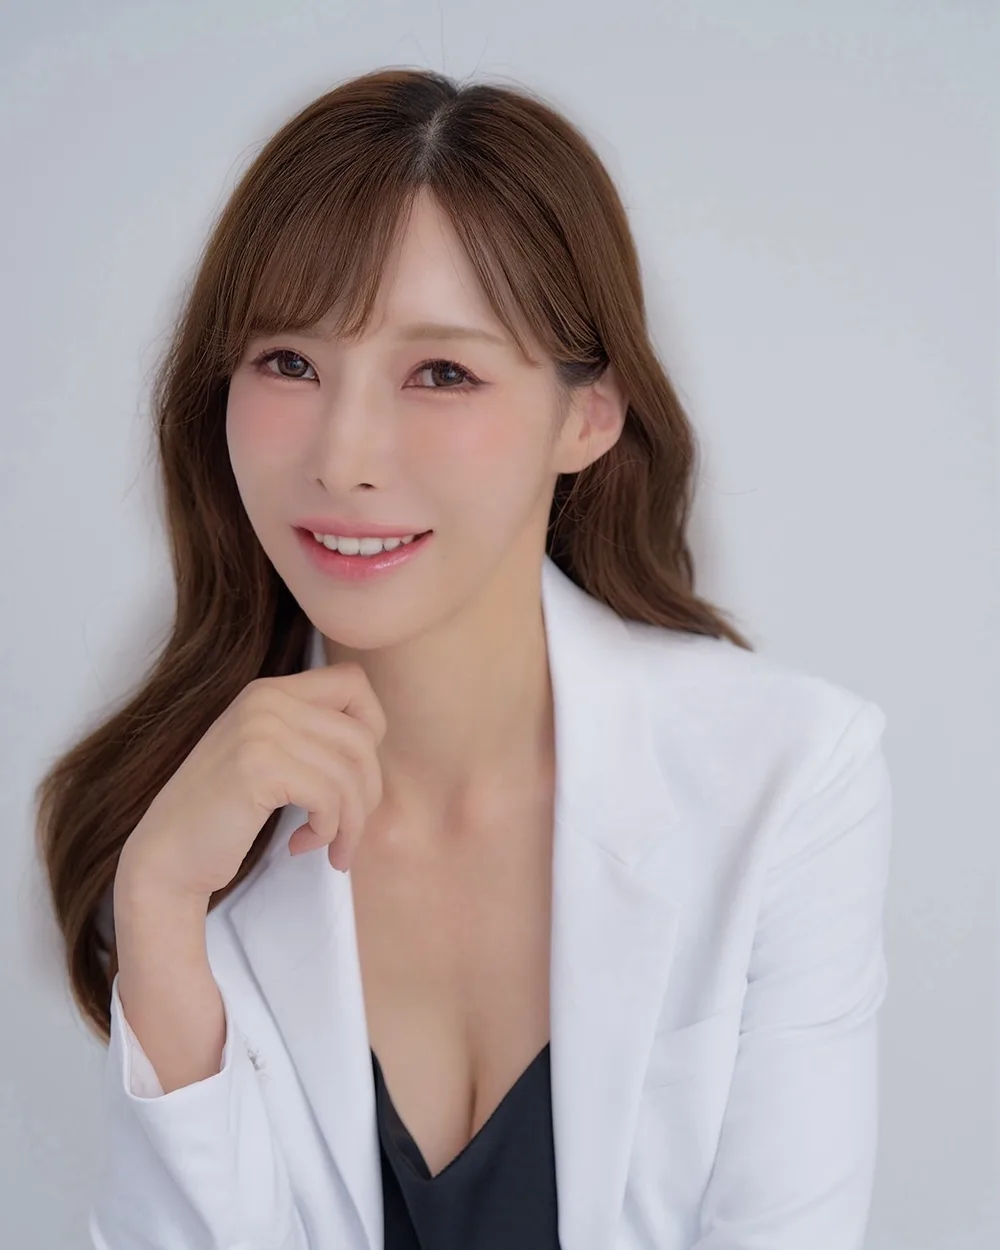
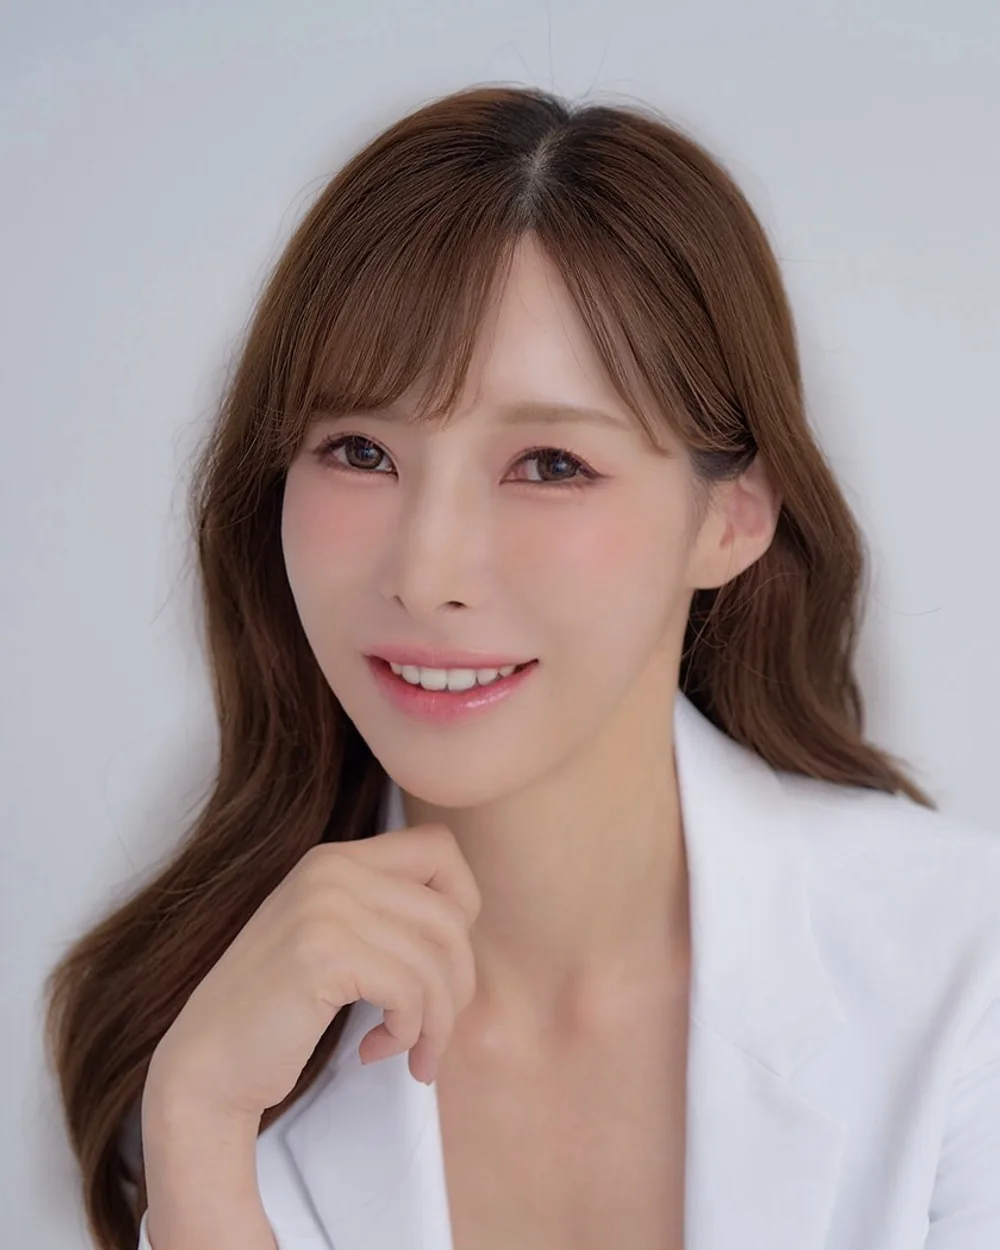
顔写真のトリミング統一・ブログ画像の見切れ修正・「選ばれる理由」を編集的レイアウトに刷新・縦書きの文字重なりを修正
Claude-Session: https://claude.ai/code/session_018aKLtxqHy7iMJmdab12LXn

diff --git a/index.html b/index.html
@@ -97,7 +97,7 @@
       </div>
     </div>
   </div>
-  <p class="hero__vert">あなただけの、美しさを。</p>
+  <p class="hero__vert"><span class="vstack"><span>あ</span><span>な</span><span>た</span><span>だ</span><span>け</span><span>の</span><span>美</span><span>し</span><span>さ</span><span>を</span></span></p>
   <div class="hero__scroll" aria-hidden="true">Scroll<i></i></div>
 </section>
 
@@ -155,24 +155,15 @@
   <div class="container">
     <div class="sec-head is-center reveal"><span class="en">Reason</span><span class="ja">選ばれる3つの理由</span></div>
     <h2 class="sec-title txt-center reveal">医療の知識と、アートの技術。<br class="sp">そのどちらも妥協しません。</h2>
-    <div class="features">
-      <div class="feature reveal" data-delay="1">
-        <p class="feature__num">01</p>
-        <div class="feature__icon" aria-hidden="true"><svg viewBox="0 0 48 48"><path d="M24 6v36M6 24h36"/><circle cx="24" cy="24" r="17"/></svg></div>
-        <h3 class="feature__title">医療従事者による安心の施術</h3>
-        <p>アートメイクは皮膚に色素を入れる医療行為です。当院では看護師資格を持つアーティストが、提携クリニックの医師の管理のもとで施術。滅菌された使い捨てニードルと医療グレードの色素のみを使用します。</p>
+    <div class="reasons">
+      <div class="reasons__visual reveal">
+        <img src="assets/img/reason-visual.webp" alt="" loading="lazy">
+        <p class="reasons__vert"><small>Reason</small><span class="vstack"><span>選</span><span>ば</span><span>れ</span><span>る</span><span>理</span><span>由</span></span></p>
       </div>
-      <div class="feature reveal" data-delay="2">
-        <p class="feature__num">02</p>
-        <div class="feature__icon" aria-hidden="true"><svg viewBox="0 0 48 48"><path d="M6 42V6h36v36z"/><path d="M6 28h22V6M28 28v14M28 28h14"/><path d="M42 6A36 36 0 0 0 6 42" stroke-dasharray="2 3"/></svg></div>
-        <h3 class="feature__title">黄金比から導くオーダーメイド</h3>
-        <p>黄金比・白銀比、骨格、表情筋の動き、普段のメイクやライフスタイルまで様々な角度から計算し、あなたにしか似合わないデザインを設計。毛並み・パウダー・コンビネーションなど技法もお選びいただけます。</p>
-      </div>
-      <div class="feature reveal" data-delay="3">
-        <p class="feature__num">03</p>
-        <div class="feature__icon" aria-hidden="true"><svg viewBox="0 0 48 48"><path d="M24 41S6 30 6 18a9 9 0 0 1 18-2 9 9 0 0 1 18 2c0 12-18 23-18 23z"/><path d="M14 20h6l3-5 4 10 3-5h4"/></svg></div>
-        <h3 class="feature__title">アピアランスケアへの取り組み</h3>
-        <p>無毛症・脱毛症・口唇口蓋裂・がん治療前後の方へ、眉・アイライン・リップ・乳輪乳頭のアートメイクを特別価格でご提供。治療中の方も、医師と連携しながら安全に受けていただける方法を一緒に考えます。</p>
+      <div class="reasons__list">
+        <div class="reasons__item reveal"><span class="reasons__kanji">医</span><div><h3 class="reasons__title">医療従事者による、安心の施術</h3><p class="reasons__text">アートメイクは皮膚に色素を入れる医療行為です。看護師資格を持つアーティストが、提携クリニックの医師の管理のもとで施術。滅菌された使い捨てニードルと医療グレードの色素のみを使用します。</p></div></div>
+        <div class="reasons__item reveal" data-delay="1"><span class="reasons__kanji">美</span><div><h3 class="reasons__title">黄金比から導く、あなただけのデザイン</h3><p class="reasons__text">黄金比・白銀比、骨格、表情筋の動き、普段のメイクやライフスタイルまで様々な角度から計算し、あなたにしか似合わないデザインを設計。毛並み・パウダー・コンビネーションなど技法もお選びいただけます。</p></div></div>
+        <div class="reasons__item reveal" data-delay="2"><span class="reasons__kanji">寄</span><div><h3 class="reasons__title">治療中の方にも寄り添う、アピアランスケア</h3><p class="reasons__text">無毛症・脱毛症・口唇口蓋裂・がん治療前後の方へ、眉・アイライン・リップ・乳輪乳頭のアートメイクを特別価格でご提供。治療中の方も、医師と連携しながら安全に受けていただける方法を一緒に考えます。</p></div></div>
       </div>
     </div>
   </div>
@@ -469,7 +460,7 @@
         <div class="site-bnr__body"><p class="site-bnr__sub">最新の症例・ビフォーアフター</p><p class="site-bnr__name">@seira_medicalart</p><span class="site-bnr__link">Instagramを見る</span></div>
       </a>
       <a class="site-bnr reveal" data-delay="2" href="https://ameblo.jp/seiramedicalart/" target="_blank" rel="noopener">
-        <div class="site-bnr__img"><span class="site-bnr__area">Blog</span><img src="assets/img/seira-shirai.webp" alt="" loading="lazy" style="object-position:top"></div>
+        <div class="site-bnr__img"><span class="site-bnr__area">Blog</span><img src="assets/img/blog-seira.webp" alt="" loading="lazy"></div>
         <div class="site-bnr__body"><p class="site-bnr__sub">施術のこと、日々のこと</p><p class="site-bnr__name">代表・白井のブログ</p><span class="site-bnr__link">ブログを見る</span></div>
       </a>
       <a class="site-bnr reveal" data-delay="3" href="school.html">

diff --git a/assets/css/style.css b/assets/css/style.css
@@ -703,3 +703,41 @@ body.menu-open{overflow:hidden}
 .staff__ig:hover{background:var(--cacao);color:#fff}
 @media (max-width:1100px){.staff{grid-template-columns:repeat(2,1fr)}}
 @media (max-width:640px){.staff{grid-template-columns:1fr}}
+
+/* ---------- reasons: editorial two-column ---------- */
+.feature__num,.feature__icon{display:none}
+.feature{border-top:1px solid var(--rose-deep);padding:34px 30px 36px}
+.reasons{display:grid;grid-template-columns:5fr 7fr;gap:clamp(32px,6vw,96px);align-items:stretch}
+.reasons__visual{position:relative;min-height:520px;overflow:hidden;background:var(--linen)}
+.reasons__visual img{position:absolute;inset:0;width:100%;height:100%;object-fit:cover;object-position:center}
+.reasons__visual::after{content:"";position:absolute;inset:0;background:linear-gradient(180deg,rgba(42,26,16,0) 45%,rgba(42,26,16,.55) 100%)}
+.reasons__vert{position:absolute;left:28px;bottom:28px;z-index:1;writing-mode:vertical-rl;font-family:var(--font-serif);font-size:clamp(20px,2vw,26px);letter-spacing:.32em;line-height:1;color:#fff;display:flex;gap:16px;align-items:flex-start}
+.reasons__vert small{font-family:var(--font-en);font-size:11px;letter-spacing:.32em;text-transform:uppercase;color:var(--rose);writing-mode:vertical-rl}
+.reasons__list{display:flex;flex-direction:column;justify-content:center}
+.reasons__item{padding:clamp(26px,3vw,38px) 0;border-top:1px solid var(--line);display:grid;grid-template-columns:auto 1fr;gap:clamp(18px,3vw,40px);align-items:start}
+.reasons__item:last-child{border-bottom:1px solid var(--line)}
+.reasons__kanji{font-family:var(--font-serif);font-size:clamp(28px,3vw,40px);line-height:1;color:var(--gold);letter-spacing:.04em;padding-top:4px;min-width:1.2em}
+.reasons__title{font-family:var(--font-serif);font-size:clamp(18px,1.7vw,21px);letter-spacing:.08em;color:var(--cacao);line-height:1.6}
+.reasons__text{margin-top:10px;font-size:14px;line-height:1.95;color:var(--umber)}
+@media (max-width:900px){
+  .reasons{grid-template-columns:1fr}
+  .reasons__visual{min-height:0;aspect-ratio:16/10}
+  .reasons__vert{left:20px;bottom:20px}
+}
+.reasons{margin-top:clamp(40px,6vw,72px)}
+.reasons__vert{top:28px;bottom:auto}
+.reasons__item{grid-template-columns:1fr}
+.reasons__kanji{display:none}
+.reasons__visual::after{background:linear-gradient(180deg,rgba(42,26,16,.45) 0%,rgba(42,26,16,0) 45%)}
+@media (max-width:900px){.reasons__vert{top:20px;font-size:18px}}
+.reasons__vert{display:block;white-space:nowrap;height:auto;max-height:none;line-height:1.1}
+.reasons__vert small{display:block;writing-mode:vertical-rl;margin-left:14px;line-height:1}
+/* vertical text: disable proportional (palt) metrics which collapse glyph advances in vertical-rl */
+.reasons__vert,.reasons__vert small,.hero__vert,.vert{font-feature-settings:normal;font-variant-east-asian:normal}
+/* robust vertical text: stack one glyph per line (no dependency on font vertical metrics) */
+.vstack{display:flex;flex-direction:column;align-items:center;gap:.3em;line-height:1;writing-mode:horizontal-tb;white-space:normal}
+.vstack span{display:block}
+.reasons__vert{display:flex;flex-direction:row-reverse;align-items:flex-start;gap:14px;writing-mode:horizontal-tb;white-space:normal;height:auto;letter-spacing:0}
+.reasons__vert small{writing-mode:vertical-rl;margin:0;letter-spacing:.32em;line-height:1;padding-top:2px}
+.hero__vert{writing-mode:horizontal-tb;flex-direction:column;align-items:center;gap:18px;letter-spacing:0}
+.hero__vert::after{margin-top:0}

diff --git a/about.html b/about.html
@@ -294,7 +294,7 @@
         <div class="site-bnr__body"><p class="site-bnr__sub">最新の症例・ビフォーアフター</p><p class="site-bnr__name">@seira_medicalart</p><span class="site-bnr__link">Instagramを見る</span></div>
       </a>
       <a class="site-bnr reveal" data-delay="2" href="https://ameblo.jp/seiramedicalart/" target="_blank" rel="noopener">
-        <div class="site-bnr__img"><span class="site-bnr__area">Blog</span><img src="assets/img/seira-shirai.webp" alt="" loading="lazy" style="object-position:top"></div>
+        <div class="site-bnr__img"><span class="site-bnr__area">Blog</span><img src="assets/img/blog-seira.webp" alt="" loading="lazy"></div>
         <div class="site-bnr__body"><p class="site-bnr__sub">施術のこと、日々のこと</p><p class="site-bnr__name">代表・白井のブログ</p><span class="site-bnr__link">ブログを見る</span></div>
       </a>
       <a class="site-bnr reveal" data-delay="3" href="school.html">

diff --git a/artmake.html b/artmake.html
@@ -280,7 +280,7 @@
         <div class="site-bnr__body"><p class="site-bnr__sub">最新の症例・ビフォーアフター</p><p class="site-bnr__name">@seira_medicalart</p><span class="site-bnr__link">Instagramを見る</span></div>
       </a>
       <a class="site-bnr reveal" data-delay="2" href="https://ameblo.jp/seiramedicalart/" target="_blank" rel="noopener">
-        <div class="site-bnr__img"><span class="site-bnr__area">Blog</span><img src="assets/img/seira-shirai.webp" alt="" loading="lazy" style="object-position:top"></div>
+        <div class="site-bnr__img"><span class="site-bnr__area">Blog</span><img src="assets/img/blog-seira.webp" alt="" loading="lazy"></div>
         <div class="site-bnr__body"><p class="site-bnr__sub">施術のこと、日々のこと</p><p class="site-bnr__name">代表・白井のブログ</p><span class="site-bnr__link">ブログを見る</span></div>
       </a>
       <a class="site-bnr reveal" data-delay="3" href="school.html">

diff --git a/clinic.html b/clinic.html
@@ -250,7 +250,7 @@
         <div class="site-bnr__body"><p class="site-bnr__sub">最新の症例・ビフォーアフター</p><p class="site-bnr__name">@seira_medicalart</p><span class="site-bnr__link">Instagramを見る</span></div>
       </a>
       <a class="site-bnr reveal" data-delay="2" href="https://ameblo.jp/seiramedicalart/" target="_blank" rel="noopener">
-        <div class="site-bnr__img"><span class="site-bnr__area">Blog</span><img src="assets/img/seira-shirai.webp" alt="" loading="lazy" style="object-position:top"></div>
+        <div class="site-bnr__img"><span class="site-bnr__area">Blog</span><img src="assets/img/blog-seira.webp" alt="" loading="lazy"></div>
         <div class="site-bnr__body"><p class="site-bnr__sub">施術のこと、日々のこと</p><p class="site-bnr__name">代表・白井のブログ</p><span class="site-bnr__link">ブログを見る</span></div>
       </a>
       <a class="site-bnr reveal" data-delay="3" href="school.html">

diff --git a/contact.html b/contact.html
@@ -274,7 +274,7 @@
         <div class="site-bnr__body"><p class="site-bnr__sub">最新の症例・ビフォーアフター</p><p class="site-bnr__name">@seira_medicalart</p><span class="site-bnr__link">Instagramを見る</span></div>
       </a>
       <a class="site-bnr reveal" data-delay="2" href="https://ameblo.jp/seiramedicalart/" target="_blank" rel="noopener">
-        <div class="site-bnr__img"><span class="site-bnr__area">Blog</span><img src="assets/img/seira-shirai.webp" alt="" loading="lazy" style="object-position:top"></div>
+        <div class="site-bnr__img"><span class="site-bnr__area">Blog</span><img src="assets/img/blog-seira.webp" alt="" loading="lazy"></div>
         <div class="site-bnr__body"><p class="site-bnr__sub">施術のこと、日々のこと</p><p class="site-bnr__name">代表・白井のブログ</p><span class="site-bnr__link">ブログを見る</span></div>
       </a>
       <a class="site-bnr reveal" data-delay="3" href="school.html">

diff --git a/menu.html b/menu.html
@@ -278,7 +278,7 @@
         <div class="site-bnr__body"><p class="site-bnr__sub">最新の症例・ビフォーアフター</p><p class="site-bnr__name">@seira_medicalart</p><span class="site-bnr__link">Instagramを見る</span></div>
       </a>
       <a class="site-bnr reveal" data-delay="2" href="https://ameblo.jp/seiramedicalart/" target="_blank" rel="noopener">
-        <div class="site-bnr__img"><span class="site-bnr__area">Blog</span><img src="assets/img/seira-shirai.webp" alt="" loading="lazy" style="object-position:top"></div>
+        <div class="site-bnr__img"><span class="site-bnr__area">Blog</span><img src="assets/img/blog-seira.webp" alt="" loading="lazy"></div>
         <div class="site-bnr__body"><p class="site-bnr__sub">施術のこと、日々のこと</p><p class="site-bnr__name">代表・白井のブログ</p><span class="site-bnr__link">ブログを見る</span></div>
       </a>
       <a class="site-bnr reveal" data-delay="3" href="school.html">

diff --git a/price.html b/price.html
@@ -272,7 +272,7 @@
         <div class="site-bnr__body"><p class="site-bnr__sub">最新の症例・ビフォーアフター</p><p class="site-bnr__name">@seira_medicalart</p><span class="site-bnr__link">Instagramを見る</span></div>
       </a>
       <a class="site-bnr reveal" data-delay="2" href="https://ameblo.jp/seiramedicalart/" target="_blank" rel="noopener">
-        <div class="site-bnr__img"><span class="site-bnr__area">Blog</span><img src="assets/img/seira-shirai.webp" alt="" loading="lazy" style="object-position:top"></div>
+        <div class="site-bnr__img"><span class="site-bnr__area">Blog</span><img src="assets/img/blog-seira.webp" alt="" loading="lazy"></div>
         <div class="site-bnr__body"><p class="site-bnr__sub">施術のこと、日々のこと</p><p class="site-bnr__name">代表・白井のブログ</p><span class="site-bnr__link">ブログを見る</span></div>
       </a>
       <a class="site-bnr reveal" data-delay="3" href="school.html">

diff --git a/privacy.html b/privacy.html
@@ -226,7 +226,7 @@
         <div class="site-bnr__body"><p class="site-bnr__sub">最新の症例・ビフォーアフター</p><p class="site-bnr__name">@seira_medicalart</p><span class="site-bnr__link">Instagramを見る</span></div>
       </a>
       <a class="site-bnr reveal" data-delay="2" href="https://ameblo.jp/seiramedicalart/" target="_blank" rel="noopener">
-        <div class="site-bnr__img"><span class="site-bnr__area">Blog</span><img src="assets/img/seira-shirai.webp" alt="" loading="lazy" style="object-position:top"></div>
+        <div class="site-bnr__img"><span class="site-bnr__area">Blog</span><img src="assets/img/blog-seira.webp" alt="" loading="lazy"></div>
         <div class="site-bnr__body"><p class="site-bnr__sub">施術のこと、日々のこと</p><p class="site-bnr__name">代表・白井のブログ</p><span class="site-bnr__link">ブログを見る</span></div>
       </a>
       <a class="site-bnr reveal" data-delay="3" href="school.html">

diff --git a/qa.html b/qa.html
@@ -241,7 +241,7 @@
         <div class="site-bnr__body"><p class="site-bnr__sub">最新の症例・ビフォーアフター</p><p class="site-bnr__name">@seira_medicalart</p><span class="site-bnr__link">Instagramを見る</span></div>
       </a>
       <a class="site-bnr reveal" data-delay="2" href="https://ameblo.jp/seiramedicalart/" target="_blank" rel="noopener">
-        <div class="site-bnr__img"><span class="site-bnr__area">Blog</span><img src="assets/img/seira-shirai.webp" alt="" loading="lazy" style="object-position:top"></div>
+        <div class="site-bnr__img"><span class="site-bnr__area">Blog</span><img src="assets/img/blog-seira.webp" alt="" loading="lazy"></div>
         <div class="site-bnr__body"><p class="site-bnr__sub">施術のこと、日々のこと</p><p class="site-bnr__name">代表・白井のブログ</p><span class="site-bnr__link">ブログを見る</span></div>
       </a>
       <a class="site-bnr reveal" data-delay="3" href="school.html">

diff --git a/school.html b/school.html
@@ -258,7 +258,7 @@
         <div class="site-bnr__body"><p class="site-bnr__sub">最新の症例・ビフォーアフター</p><p class="site-bnr__name">@seira_medicalart</p><span class="site-bnr__link">Instagramを見る</span></div>
       </a>
       <a class="site-bnr reveal" data-delay="2" href="https://ameblo.jp/seiramedicalart/" target="_blank" rel="noopener">
-        <div class="site-bnr__img"><span class="site-bnr__area">Blog</span><img src="assets/img/seira-shirai.webp" alt="" loading="lazy" style="object-position:top"></div>
+        <div class="site-bnr__img"><span class="site-bnr__area">Blog</span><img src="assets/img/blog-seira.webp" alt="" loading="lazy"></div>
         <div class="site-bnr__body"><p class="site-bnr__sub">施術のこと、日々のこと</p><p class="site-bnr__name">代表・白井のブログ</p><span class="site-bnr__link">ブログを見る</span></div>
       </a>
       <a class="site-bnr reveal" data-delay="3" href="school.html">

diff --git a/style.html b/style.html
@@ -232,7 +232,7 @@
         <div class="site-bnr__body"><p class="site-bnr__sub">最新の症例・ビフォーアフター</p><p class="site-bnr__name">@seira_medicalart</p><span class="site-bnr__link">Instagramを見る</span></div>
       </a>
       <a class="site-bnr reveal" data-delay="2" href="https://ameblo.jp/seiramedicalart/" target="_blank" rel="noopener">
-        <div class="site-bnr__img"><span class="site-bnr__area">Blog</span><img src="assets/img/seira-shirai.webp" alt="" loading="lazy" style="object-position:top"></div>
+        <div class="site-bnr__img"><span class="site-bnr__area">Blog</span><img src="assets/img/blog-seira.webp" alt="" loading="lazy"></div>
         <div class="site-bnr__body"><p class="site-bnr__sub">施術のこと、日々のこと</p><p class="site-bnr__name">代表・白井のブログ</p><span class="site-bnr__link">ブログを見る</span></div>
       </a>
       <a class="site-bnr reveal" data-delay="3" href="school.html">
